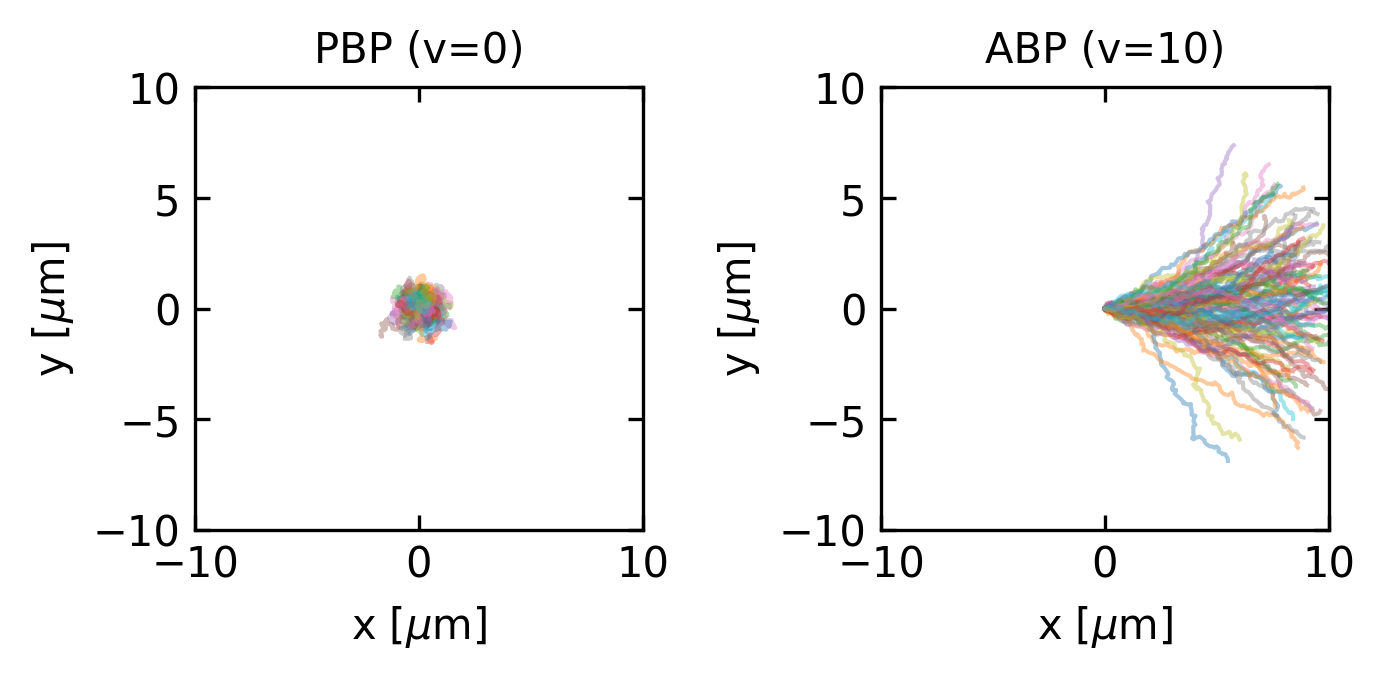
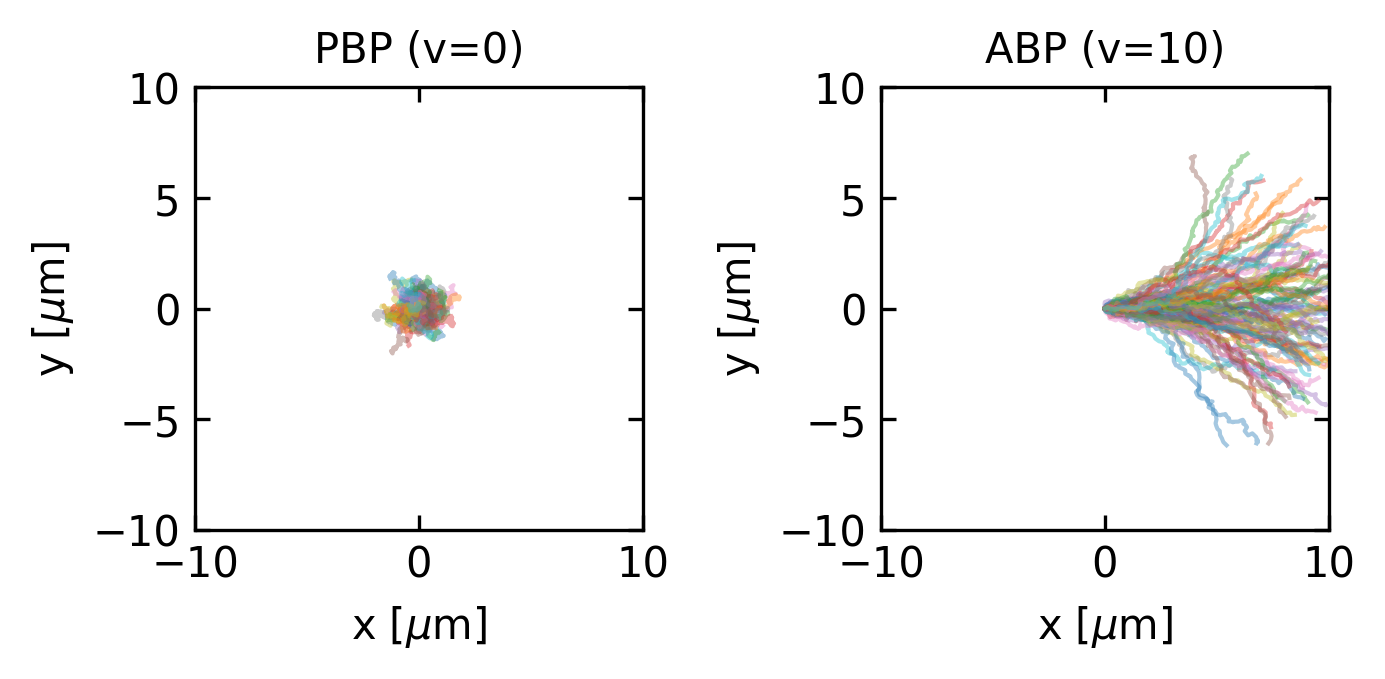
Built site for gh-pages

Changed region(s): [[0.7762, 0.2165, 0.9625, 0.6804], [0.2484, 0.4021, 0.3415, 0.5258]]

diff --git a/lecture04/lecture04.html b/lecture04/lecture04.html
@@ -20,6 +20,41 @@ ul.task-list li input[type="checkbox"] {
   margin: 0 0.8em 0.2em -1em; /* quarto-specific, see https://github.com/quarto-dev/quarto-cli/issues/4556 */ 
   vertical-align: middle;
 }
+/* CSS for syntax highlighting */
+html { -webkit-text-size-adjust: 100%; }
+pre > code.sourceCode { white-space: pre; position: relative; }
+pre > code.sourceCode > span { display: inline-block; line-height: 1.25; }
+pre > code.sourceCode > span:empty { height: 1.2em; }
+.sourceCode { overflow: visible; }
+code.sourceCode > span { color: inherit; text-decoration: inherit; }
+div.sourceCode { margin: 1em 0; }
+pre.sourceCode { margin: 0; }
+@media screen {
+div.sourceCode { overflow: auto; }
+}
+@media print {
+pre > code.sourceCode { white-space: pre-wrap; }
+pre > code.sourceCode > span { text-indent: -5em; padding-left: 5em; }
+}
+pre.numberSource code
+  { counter-reset: source-line 0; }
+pre.numberSource code > span
+  { position: relative; left: -4em; counter-increment: source-line; }
+pre.numberSource code > span > a:first-child::before
+  { content: counter(source-line);
+    position: relative; left: -1em; text-align: right; vertical-align: baseline;
+    border: none; display: inline-block;
+    -webkit-touch-callout: none; -webkit-user-select: none;
+    -khtml-user-select: none; -moz-user-select: none;
+    -ms-user-select: none; user-select: none;
+    padding: 0 4px; width: 4em;
+  }
+pre.numberSource { margin-left: 3em;  padding-left: 4px; }
+div.sourceCode
+  {   }
+@media screen {
+pre > code.sourceCode > span > a:first-child::before { text-decoration: underline; }
+}
 </style>
 
 
@@ -284,6 +319,33 @@ window.Quarto = {
 </header>
 
 
+<div id="da87497c" class="cell" data-execution_count="1">
+<div class="sourceCode cell-code" id="cb1"><pre class="sourceCode python code-with-copy"><code class="sourceCode python"><span id="cb1-1"><a href="#cb1-1" aria-hidden="true" tabindex="-1"></a><span class="co">## just for plotting later</span></span>
+<span id="cb1-2"><a href="#cb1-2" aria-hidden="true" tabindex="-1"></a><span class="im">import</span> numpy <span class="im">as</span> np</span>
+<span id="cb1-3"><a href="#cb1-3" aria-hidden="true" tabindex="-1"></a><span class="im">import</span> pandas <span class="im">as</span> pd</span>
+<span id="cb1-4"><a href="#cb1-4" aria-hidden="true" tabindex="-1"></a><span class="im">import</span> matplotlib.pyplot <span class="im">as</span> plt</span>
+<span id="cb1-5"><a href="#cb1-5" aria-hidden="true" tabindex="-1"></a></span>
+<span id="cb1-6"><a href="#cb1-6" aria-hidden="true" tabindex="-1"></a><span class="im">from</span> numpy.random <span class="im">import</span> randn</span>
+<span id="cb1-7"><a href="#cb1-7" aria-hidden="true" tabindex="-1"></a></span>
+<span id="cb1-8"><a href="#cb1-8" aria-hidden="true" tabindex="-1"></a><span class="co">#from matplotlib_inline.backend_inline import set_matplotlib_formats</span></span>
+<span id="cb1-9"><a href="#cb1-9" aria-hidden="true" tabindex="-1"></a><span class="co">#set_matplotlib_formats('svg')</span></span>
+<span id="cb1-10"><a href="#cb1-10" aria-hidden="true" tabindex="-1"></a></span>
+<span id="cb1-11"><a href="#cb1-11" aria-hidden="true" tabindex="-1"></a>plt.rcParams.update({<span class="st">'font.size'</span>: <span class="dv">10</span>,</span>
+<span id="cb1-12"><a href="#cb1-12" aria-hidden="true" tabindex="-1"></a>                     <span class="st">'axes.titlesize'</span>: <span class="dv">10</span>,</span>
+<span id="cb1-13"><a href="#cb1-13" aria-hidden="true" tabindex="-1"></a>                     <span class="st">'axes.labelsize'</span>: <span class="dv">10</span>,</span>
+<span id="cb1-14"><a href="#cb1-14" aria-hidden="true" tabindex="-1"></a>                     <span class="st">'lines.linewidth'</span>: <span class="dv">1</span>,</span>
+<span id="cb1-15"><a href="#cb1-15" aria-hidden="true" tabindex="-1"></a>                     <span class="st">'lines.markersize'</span>: <span class="dv">5</span>,</span>
+<span id="cb1-16"><a href="#cb1-16" aria-hidden="true" tabindex="-1"></a>                     <span class="st">'xtick.labelsize'</span> : <span class="dv">10</span>,</span>
+<span id="cb1-17"><a href="#cb1-17" aria-hidden="true" tabindex="-1"></a>                     <span class="st">'ytick.labelsize'</span> : <span class="dv">10</span>,</span>
+<span id="cb1-18"><a href="#cb1-18" aria-hidden="true" tabindex="-1"></a>                     <span class="st">'xtick.top'</span> : <span class="va">True</span>,</span>
+<span id="cb1-19"><a href="#cb1-19" aria-hidden="true" tabindex="-1"></a>                     <span class="st">'xtick.direction'</span> : <span class="st">'in'</span>,</span>
+<span id="cb1-20"><a href="#cb1-20" aria-hidden="true" tabindex="-1"></a>                     <span class="st">'ytick.right'</span> : <span class="va">True</span>,</span>
+<span id="cb1-21"><a href="#cb1-21" aria-hidden="true" tabindex="-1"></a>                     <span class="st">'ytick.direction'</span> : <span class="st">'in'</span>,</span>
+<span id="cb1-22"><a href="#cb1-22" aria-hidden="true" tabindex="-1"></a>                     <span class="st">'figure.dpi'</span>: <span class="dv">150</span>})</span>
+<span id="cb1-23"><a href="#cb1-23" aria-hidden="true" tabindex="-1"></a></span>
+<span id="cb1-24"><a href="#cb1-24" aria-hidden="true" tabindex="-1"></a><span class="kw">def</span> get_size(w,h):</span>
+<span id="cb1-25"><a href="#cb1-25" aria-hidden="true" tabindex="-1"></a>    <span class="cf">return</span>((w<span class="op">/</span><span class="fl">2.54</span>,h<span class="op">/</span><span class="fl">2.54</span>))</span></code><button title="Copy to Clipboard" class="code-copy-button"><i class="bi"></i></button></pre></div>
+</div>
 <section id="active-brownian-particles-abps" class="level2">
 <h2 class="anchored" data-anchor-id="active-brownian-particles-abps">Active Brownian Particles (ABPs)</h2>
 <p>After examining Run-and-Tumble Particles, we now turn to Active Brownian Particles (ABPs), which represent another fundamental model of self-propelled agents. Like RTPs, ABPs extend the equilibrium Brownian motion framework we discussed in Lecture 2, but they do so through continuous rotational diffusion rather than discrete tumbling events. This alternative self-propulsion mechanism similarly drives the system out of equilibrium.</p>
@@ -328,6 +390,85 @@ Figure&nbsp;1— Janus particles performing active Brownian motion. These synthe
 <p>The mean displacement in the y-direction averages to zero due to the symmetry of rotational diffusion. The x-component shows an initial ballistic growth that saturates at the persistence length scale <span class="math inline">\(l_p=v_0/D_r\)</span> for times much larger than the rotational diffusion time <span class="math inline">\(\tau_r=1/D_r\)</span>. This persistence length represents the typical distance traveled before the particle’s direction is randomized.</p>
 <p>Unlike equilibrium Brownian motion where the mean displacement is zero in all directions, the ABP’s mean displacement reflects the persistence of its self-propulsion. As <span class="math inline">\(t \to \infty\)</span>, the orientation becomes fully randomized, and any further displacement averages to zero, resulting in the saturation of the mean displacement to a finite value.</p>
 <div id="cell-fig-traj1" class="cell" data-execution_count="2">
+<div class="sourceCode cell-code" id="cb2"><pre class="sourceCode python code-with-copy"><code class="sourceCode python"><span id="cb2-1"><a href="#cb2-1" aria-hidden="true" tabindex="-1"></a><span class="co"># translational diffusion coefficient for T=300 K</span></span>
+<span id="cb2-2"><a href="#cb2-2" aria-hidden="true" tabindex="-1"></a><span class="kw">def</span> D_T(_eta,_R):</span>
+<span id="cb2-3"><a href="#cb2-3" aria-hidden="true" tabindex="-1"></a>    kBT<span class="op">=</span><span class="fl">4.14195e-21</span> <span class="co"># k_B * 300 K in J</span></span>
+<span id="cb2-4"><a href="#cb2-4" aria-hidden="true" tabindex="-1"></a>    <span class="cf">return</span>(kBT<span class="op">/</span>(<span class="dv">6</span><span class="op">*</span>np.pi<span class="op">*</span>_eta<span class="op">*</span>_R)) <span class="co"># diffusion constant returned in m^2/s</span></span>
+<span id="cb2-5"><a href="#cb2-5" aria-hidden="true" tabindex="-1"></a></span>
+<span id="cb2-6"><a href="#cb2-6" aria-hidden="true" tabindex="-1"></a><span class="co"># rotational diffusion coefficient for T=300 K</span></span>
+<span id="cb2-7"><a href="#cb2-7" aria-hidden="true" tabindex="-1"></a><span class="kw">def</span> D_R(_eta,_R):</span>
+<span id="cb2-8"><a href="#cb2-8" aria-hidden="true" tabindex="-1"></a>    kBT<span class="op">=</span><span class="fl">4.14195e-21</span> <span class="co"># k_B * 300 K in J</span></span>
+<span id="cb2-9"><a href="#cb2-9" aria-hidden="true" tabindex="-1"></a>    <span class="cf">return</span>(kBT<span class="op">/</span>(<span class="dv">8</span><span class="op">*</span>np.pi<span class="op">*</span>_eta<span class="op">*</span>_R<span class="op">**</span><span class="dv">3</span>)) <span class="co"># diffusion constant returned in m^2/s</span></span>
+<span id="cb2-10"><a href="#cb2-10" aria-hidden="true" tabindex="-1"></a></span>
+<span id="cb2-11"><a href="#cb2-11" aria-hidden="true" tabindex="-1"></a><span class="co"># rotate a 2D vector xy by an angle radians</span></span>
+<span id="cb2-12"><a href="#cb2-12" aria-hidden="true" tabindex="-1"></a><span class="kw">def</span> rotate(xy, radians):</span>
+<span id="cb2-13"><a href="#cb2-13" aria-hidden="true" tabindex="-1"></a>    x, y <span class="op">=</span> xy</span>
+<span id="cb2-14"><a href="#cb2-14" aria-hidden="true" tabindex="-1"></a>    c, s <span class="op">=</span> np.cos(radians), np.sin(radians)</span>
+<span id="cb2-15"><a href="#cb2-15" aria-hidden="true" tabindex="-1"></a>    j <span class="op">=</span> np.array([[c, s], [<span class="op">-</span>s, c]])</span>
+<span id="cb2-16"><a href="#cb2-16" aria-hidden="true" tabindex="-1"></a>    m <span class="op">=</span> np.dot(j, [x, y])</span>
+<span id="cb2-17"><a href="#cb2-17" aria-hidden="true" tabindex="-1"></a></span>
+<span id="cb2-18"><a href="#cb2-18" aria-hidden="true" tabindex="-1"></a>    <span class="cf">return</span>(<span class="bu">float</span>(m[<span class="dv">0</span>]), <span class="bu">float</span>(m[<span class="dv">1</span>]))</span>
+<span id="cb2-19"><a href="#cb2-19" aria-hidden="true" tabindex="-1"></a></span>
+<span id="cb2-20"><a href="#cb2-20" aria-hidden="true" tabindex="-1"></a></span>
+<span id="cb2-21"><a href="#cb2-21" aria-hidden="true" tabindex="-1"></a><span class="co"># generate the data of an active particle random walk</span></span>
+<span id="cb2-22"><a href="#cb2-22" aria-hidden="true" tabindex="-1"></a><span class="kw">def</span> genData_ap(N,_D,_Dr,_v,dt):</span>
+<span id="cb2-23"><a href="#cb2-23" aria-hidden="true" tabindex="-1"></a>    v<span class="op">=</span>np.random.random(<span class="dv">2</span>)</span>
+<span id="cb2-24"><a href="#cb2-24" aria-hidden="true" tabindex="-1"></a>    v[<span class="dv">0</span>]<span class="op">=</span>_v</span>
+<span id="cb2-25"><a href="#cb2-25" aria-hidden="true" tabindex="-1"></a>    v[<span class="dv">1</span>]<span class="op">=</span><span class="dv">0</span></span>
+<span id="cb2-26"><a href="#cb2-26" aria-hidden="true" tabindex="-1"></a>    sigma<span class="op">=</span>np.sqrt(<span class="dv">2</span><span class="op">*</span>_D<span class="op">*</span>dt)</span>
+<span id="cb2-27"><a href="#cb2-27" aria-hidden="true" tabindex="-1"></a>    sigma_r<span class="op">=</span>np.sqrt(<span class="dv">2</span><span class="op">*</span>_Dr<span class="op">*</span>dt)</span>
+<span id="cb2-28"><a href="#cb2-28" aria-hidden="true" tabindex="-1"></a></span>
+<span id="cb2-29"><a href="#cb2-29" aria-hidden="true" tabindex="-1"></a>    phi<span class="op">=</span>sigma_r<span class="op">*</span>randn(N).cumsum()</span>
+<span id="cb2-30"><a href="#cb2-30" aria-hidden="true" tabindex="-1"></a>    vx,vy<span class="op">=</span>[np.zeros(N),np.zeros(N)]</span>
+<span id="cb2-31"><a href="#cb2-31" aria-hidden="true" tabindex="-1"></a>    vx[:],vy[:]<span class="op">=</span>[v[<span class="dv">0</span>],v[<span class="dv">1</span>]]</span>
+<span id="cb2-32"><a href="#cb2-32" aria-hidden="true" tabindex="-1"></a>    vv<span class="op">=</span>np.array([rotate([vx[i],vy[i]],phi[i]) <span class="cf">for</span> i <span class="kw">in</span> <span class="bu">range</span>(<span class="bu">len</span>(phi))])</span>
+<span id="cb2-33"><a href="#cb2-33" aria-hidden="true" tabindex="-1"></a></span>
+<span id="cb2-34"><a href="#cb2-34" aria-hidden="true" tabindex="-1"></a>    <span class="co">#do the random walk</span></span>
+<span id="cb2-35"><a href="#cb2-35" aria-hidden="true" tabindex="-1"></a>    x <span class="op">=</span> (sigma<span class="op">*</span>randn(N)<span class="op">+</span>vv[:,<span class="dv">0</span>]<span class="op">*</span>dt).cumsum()</span>
+<span id="cb2-36"><a href="#cb2-36" aria-hidden="true" tabindex="-1"></a>    y <span class="op">=</span> (sigma<span class="op">*</span>randn(N)<span class="op">+</span>vv[:,<span class="dv">1</span>]<span class="op">*</span>dt).cumsum()</span>
+<span id="cb2-37"><a href="#cb2-37" aria-hidden="true" tabindex="-1"></a></span>
+<span id="cb2-38"><a href="#cb2-38" aria-hidden="true" tabindex="-1"></a>    <span class="co"># Shift to start at the origin</span></span>
+<span id="cb2-39"><a href="#cb2-39" aria-hidden="true" tabindex="-1"></a>    x <span class="op">=</span> x <span class="op">-</span> x[<span class="dv">0</span>]</span>
+<span id="cb2-40"><a href="#cb2-40" aria-hidden="true" tabindex="-1"></a>    y <span class="op">=</span> y <span class="op">-</span> y[<span class="dv">0</span>]</span>
+<span id="cb2-41"><a href="#cb2-41" aria-hidden="true" tabindex="-1"></a></span>
+<span id="cb2-42"><a href="#cb2-42" aria-hidden="true" tabindex="-1"></a>    index<span class="op">=</span>[i <span class="cf">for</span> i <span class="kw">in</span> <span class="bu">range</span>(N)]</span>
+<span id="cb2-43"><a href="#cb2-43" aria-hidden="true" tabindex="-1"></a>    df<span class="op">=</span>pd.DataFrame({<span class="st">'x'</span>:x,<span class="st">'y'</span>:y,<span class="st">'area'</span>:np.zeros(N),<span class="st">'max_intensity'</span>:np.zeros(N),<span class="st">'frame'</span>: index,<span class="st">'angle'</span>: phi})</span>
+<span id="cb2-44"><a href="#cb2-44" aria-hidden="true" tabindex="-1"></a>    <span class="cf">return</span>(df)</span>
+<span id="cb2-45"><a href="#cb2-45" aria-hidden="true" tabindex="-1"></a></span>
+<span id="cb2-46"><a href="#cb2-46" aria-hidden="true" tabindex="-1"></a><span class="co">#provide some parameters</span></span>
+<span id="cb2-47"><a href="#cb2-47" aria-hidden="true" tabindex="-1"></a>dt<span class="op">=</span><span class="fl">0.010</span>  <span class="co"># 50 ms time resolution</span></span>
+<span id="cb2-48"><a href="#cb2-48" aria-hidden="true" tabindex="-1"></a>R<span class="op">=</span><span class="fl">1e-6</span></span>
+<span id="cb2-49"><a href="#cb2-49" aria-hidden="true" tabindex="-1"></a>D<span class="op">=</span>D_T(<span class="fl">1e-3</span>,R)<span class="op">*</span><span class="fl">1e12</span>   <span class="co"># µm^2/s diffusion coefficient</span></span>
+<span id="cb2-50"><a href="#cb2-50" aria-hidden="true" tabindex="-1"></a>Dr<span class="op">=</span>D_R(<span class="fl">1e-3</span>,R)   <span class="co">#  rad^2/s rotational diffusion</span></span>
+<span id="cb2-51"><a href="#cb2-51" aria-hidden="true" tabindex="-1"></a>N<span class="op">=</span><span class="dv">100</span> <span class="co"># number of steps</span></span>
+<span id="cb2-52"><a href="#cb2-52" aria-hidden="true" tabindex="-1"></a></span>
+<span id="cb2-53"><a href="#cb2-53" aria-hidden="true" tabindex="-1"></a><span class="co"># Create figure with two subplots side by side</span></span>
+<span id="cb2-54"><a href="#cb2-54" aria-hidden="true" tabindex="-1"></a>fig, (ax1, ax2) <span class="op">=</span> plt.subplots(<span class="dv">1</span>, <span class="dv">2</span>, figsize<span class="op">=</span>get_size(<span class="dv">12</span>,<span class="dv">6</span>))</span>
+<span id="cb2-55"><a href="#cb2-55" aria-hidden="true" tabindex="-1"></a></span>
+<span id="cb2-56"><a href="#cb2-56" aria-hidden="true" tabindex="-1"></a><span class="co"># Plot passive Brownian particles (v=0) on the left subplot</span></span>
+<span id="cb2-57"><a href="#cb2-57" aria-hidden="true" tabindex="-1"></a><span class="cf">for</span> i <span class="kw">in</span> <span class="bu">range</span>(<span class="dv">100</span>):</span>
+<span id="cb2-58"><a href="#cb2-58" aria-hidden="true" tabindex="-1"></a>    dff<span class="op">=</span>genData_ap(N,D,Dr,<span class="dv">0</span>,dt)  <span class="co"># v=0 for passive Brownian motion</span></span>
+<span id="cb2-59"><a href="#cb2-59" aria-hidden="true" tabindex="-1"></a>    ax1.plot(dff[<span class="st">'x'</span>],dff[<span class="st">'y'</span>],<span class="st">'-'</span>,alpha<span class="op">=</span><span class="fl">0.4</span>)</span>
+<span id="cb2-60"><a href="#cb2-60" aria-hidden="true" tabindex="-1"></a>ax1.set_xlabel(<span class="vs">r"x </span><span class="pp">[$</span><span class="dv">\m</span><span class="pp">u$m]</span><span class="vs">"</span>)</span>
+<span id="cb2-61"><a href="#cb2-61" aria-hidden="true" tabindex="-1"></a>ax1.set_ylabel(<span class="vs">r"y </span><span class="pp">[$</span><span class="dv">\m</span><span class="pp">u$m]</span><span class="vs">"</span>)</span>
+<span id="cb2-62"><a href="#cb2-62" aria-hidden="true" tabindex="-1"></a>ax1.set_title(<span class="st">"PBP (v=0)"</span>)</span>
+<span id="cb2-63"><a href="#cb2-63" aria-hidden="true" tabindex="-1"></a></span>
+<span id="cb2-64"><a href="#cb2-64" aria-hidden="true" tabindex="-1"></a>ax1.set_xlim(<span class="op">-</span><span class="dv">10</span>,<span class="dv">10</span>)</span>
+<span id="cb2-65"><a href="#cb2-65" aria-hidden="true" tabindex="-1"></a>ax1.set_ylim(<span class="op">-</span><span class="dv">10</span>,<span class="dv">10</span>)</span>
+<span id="cb2-66"><a href="#cb2-66" aria-hidden="true" tabindex="-1"></a></span>
+<span id="cb2-67"><a href="#cb2-67" aria-hidden="true" tabindex="-1"></a><span class="co"># Plot active Brownian particles (v=10) on the right subplot</span></span>
+<span id="cb2-68"><a href="#cb2-68" aria-hidden="true" tabindex="-1"></a><span class="cf">for</span> i <span class="kw">in</span> <span class="bu">range</span>(<span class="dv">100</span>):</span>
+<span id="cb2-69"><a href="#cb2-69" aria-hidden="true" tabindex="-1"></a>    dff<span class="op">=</span>genData_ap(N,D,Dr,<span class="dv">10</span>,dt)  <span class="co"># v=10 for active Brownian particles</span></span>
+<span id="cb2-70"><a href="#cb2-70" aria-hidden="true" tabindex="-1"></a>    ax2.plot(dff[<span class="st">'x'</span>],dff[<span class="st">'y'</span>],<span class="st">'-'</span>,alpha<span class="op">=</span><span class="fl">0.4</span>)</span>
+<span id="cb2-71"><a href="#cb2-71" aria-hidden="true" tabindex="-1"></a>ax2.set_xlabel(<span class="vs">r"x </span><span class="pp">[$</span><span class="dv">\m</span><span class="pp">u$m]</span><span class="vs">"</span>)</span>
+<span id="cb2-72"><a href="#cb2-72" aria-hidden="true" tabindex="-1"></a>ax2.set_ylabel(<span class="vs">r"y </span><span class="pp">[$</span><span class="dv">\m</span><span class="pp">u$m]</span><span class="vs">"</span>)</span>
+<span id="cb2-73"><a href="#cb2-73" aria-hidden="true" tabindex="-1"></a>ax2.set_title(<span class="st">"ABP (v=10)"</span>)</span>
+<span id="cb2-74"><a href="#cb2-74" aria-hidden="true" tabindex="-1"></a>ax2.set_xlim(<span class="op">-</span><span class="dv">10</span>,<span class="dv">10</span>)</span>
+<span id="cb2-75"><a href="#cb2-75" aria-hidden="true" tabindex="-1"></a>ax2.set_ylim(<span class="op">-</span><span class="dv">10</span>,<span class="dv">10</span>)</span>
+<span id="cb2-76"><a href="#cb2-76" aria-hidden="true" tabindex="-1"></a></span>
+<span id="cb2-77"><a href="#cb2-77" aria-hidden="true" tabindex="-1"></a></span>
+<span id="cb2-78"><a href="#cb2-78" aria-hidden="true" tabindex="-1"></a>plt.tight_layout()</span>
+<span id="cb2-79"><a href="#cb2-79" aria-hidden="true" tabindex="-1"></a>plt.show()</span></code><button title="Copy to Clipboard" class="code-copy-button"><i class="bi"></i></button></pre></div>
 <div class="cell-output cell-output-display">
 <div id="fig-traj1" class="quarto-float quarto-figure quarto-figure-center anchored">
 <figure class="quarto-float quarto-float-fig figure">
@@ -369,6 +510,52 @@ Figure&nbsp;2— Trajectories of a particle (R=1 µm) starting at the origin wit
 <p><span class="math display">\[D_{\text{eff}} = D_t + \frac{v_0^2}{2dD_r}\]</span></p>
 <p>where <span class="math inline">\(d\)</span> is the dimensionality. This enhanced diffusion coefficient represents a key signature of the system’s non-equilibrium nature and cannot be explained by equilibrium statistical mechanics.</p>
 <div id="cell-fig-msd" class="cell" data-execution_count="3">
+<details class="code-fold">
+<summary>Code</summary>
+<div class="sourceCode cell-code" id="cb3"><pre class="sourceCode python code-with-copy"><code class="sourceCode python"><span id="cb3-1"><a href="#cb3-1" aria-hidden="true" tabindex="-1"></a><span class="co"># Parameters</span></span>
+<span id="cb3-2"><a href="#cb3-2" aria-hidden="true" tabindex="-1"></a>D_t <span class="op">=</span> <span class="fl">1.0</span>      <span class="co"># thermal translational diffusion coefficient</span></span>
+<span id="cb3-3"><a href="#cb3-3" aria-hidden="true" tabindex="-1"></a>v_0 <span class="op">=</span> <span class="fl">5.0</span>      <span class="co"># self-propulsion speed</span></span>
+<span id="cb3-4"><a href="#cb3-4" aria-hidden="true" tabindex="-1"></a>D_r <span class="op">=</span> <span class="fl">0.2</span>      <span class="co"># rotational diffusion coefficient</span></span>
+<span id="cb3-5"><a href="#cb3-5" aria-hidden="true" tabindex="-1"></a>tau_r <span class="op">=</span> <span class="dv">1</span><span class="op">/</span>D_r  <span class="co"># rotational diffusion time</span></span>
+<span id="cb3-6"><a href="#cb3-6" aria-hidden="true" tabindex="-1"></a></span>
+<span id="cb3-7"><a href="#cb3-7" aria-hidden="true" tabindex="-1"></a><span class="co"># Calculate theoretical MSD</span></span>
+<span id="cb3-8"><a href="#cb3-8" aria-hidden="true" tabindex="-1"></a><span class="kw">def</span> msd_theory(t, D_t, v_0, D_r):</span>
+<span id="cb3-9"><a href="#cb3-9" aria-hidden="true" tabindex="-1"></a>    <span class="co">"""Theoretical mean square displacement for active Brownian particles"""</span></span>
+<span id="cb3-10"><a href="#cb3-10" aria-hidden="true" tabindex="-1"></a>    <span class="cf">return</span> <span class="dv">4</span><span class="op">*</span>D_t<span class="op">*</span>t <span class="op">+</span> (<span class="dv">2</span><span class="op">*</span>v_0<span class="op">**</span><span class="dv">2</span>)<span class="op">/</span>(D_r<span class="op">**</span><span class="dv">2</span>)<span class="op">*</span>(D_r<span class="op">*</span>t <span class="op">-</span> <span class="dv">1</span> <span class="op">+</span> np.exp(<span class="op">-</span>D_r<span class="op">*</span>t))</span>
+<span id="cb3-11"><a href="#cb3-11" aria-hidden="true" tabindex="-1"></a></span>
+<span id="cb3-12"><a href="#cb3-12" aria-hidden="true" tabindex="-1"></a><span class="co"># Time range spanning multiple regimes</span></span>
+<span id="cb3-13"><a href="#cb3-13" aria-hidden="true" tabindex="-1"></a>t <span class="op">=</span> np.logspace(<span class="op">-</span><span class="dv">2</span>, <span class="dv">2</span>, <span class="dv">1000</span>)  <span class="co"># from 0.01 to 100</span></span>
+<span id="cb3-14"><a href="#cb3-14" aria-hidden="true" tabindex="-1"></a>msd <span class="op">=</span> msd_theory(t, D_t, v_0, D_r)</span>
+<span id="cb3-15"><a href="#cb3-15" aria-hidden="true" tabindex="-1"></a></span>
+<span id="cb3-16"><a href="#cb3-16" aria-hidden="true" tabindex="-1"></a><span class="co"># Calculate effective diffusion coefficient</span></span>
+<span id="cb3-17"><a href="#cb3-17" aria-hidden="true" tabindex="-1"></a>D_eff <span class="op">=</span> D_t <span class="op">+</span> v_0<span class="op">**</span><span class="dv">2</span><span class="op">/</span>(<span class="dv">2</span><span class="op">*</span>D_r)</span>
+<span id="cb3-18"><a href="#cb3-18" aria-hidden="true" tabindex="-1"></a></span>
+<span id="cb3-19"><a href="#cb3-19" aria-hidden="true" tabindex="-1"></a><span class="co"># Create figure</span></span>
+<span id="cb3-20"><a href="#cb3-20" aria-hidden="true" tabindex="-1"></a>plt.figure(figsize<span class="op">=</span>get_size(<span class="dv">10</span>, <span class="dv">8</span>))</span>
+<span id="cb3-21"><a href="#cb3-21" aria-hidden="true" tabindex="-1"></a></span>
+<span id="cb3-22"><a href="#cb3-22" aria-hidden="true" tabindex="-1"></a><span class="co"># Plot MSD on log-log scale</span></span>
+<span id="cb3-23"><a href="#cb3-23" aria-hidden="true" tabindex="-1"></a>plt.loglog(t, msd, <span class="st">'b-'</span>, linewidth<span class="op">=</span><span class="dv">2</span>, label<span class="op">=</span><span class="st">'MSD of ABP'</span>)</span>
+<span id="cb3-24"><a href="#cb3-24" aria-hidden="true" tabindex="-1"></a></span>
+<span id="cb3-25"><a href="#cb3-25" aria-hidden="true" tabindex="-1"></a><span class="co"># Add reference lines for different scaling regimes</span></span>
+<span id="cb3-26"><a href="#cb3-26" aria-hidden="true" tabindex="-1"></a>t_ref <span class="op">=</span> np.array([<span class="fl">0.05</span>, <span class="dv">50</span>])</span>
+<span id="cb3-27"><a href="#cb3-27" aria-hidden="true" tabindex="-1"></a>plt.loglog(t_ref, <span class="dv">4</span><span class="op">*</span>D_t<span class="op">*</span>t_ref, <span class="st">'k--'</span>, label<span class="op">=</span><span class="vs">r'</span><span class="dv">$\s</span><span class="vs">im 4D_t t</span><span class="dv">$</span><span class="vs"> </span><span class="kw">(</span><span class="vs">thermal diffusion</span><span class="kw">)</span><span class="vs">'</span>)</span>
+<span id="cb3-28"><a href="#cb3-28" aria-hidden="true" tabindex="-1"></a>plt.loglog(t_ref, v_0<span class="op">**</span><span class="dv">2</span><span class="op">*</span>t_ref<span class="op">**</span><span class="dv">2</span>, <span class="st">'r--'</span>, label<span class="op">=</span><span class="vs">r'</span><span class="dv">$\s</span><span class="vs">im v_0</span><span class="dv">^</span><span class="vs">2 t</span><span class="dv">^</span><span class="vs">2</span><span class="dv">$</span><span class="vs"> </span><span class="kw">(</span><span class="vs">ballistic</span><span class="kw">)</span><span class="vs">'</span>)</span>
+<span id="cb3-29"><a href="#cb3-29" aria-hidden="true" tabindex="-1"></a>plt.loglog(t_ref, <span class="dv">4</span><span class="op">*</span>D_eff<span class="op">*</span>t_ref, <span class="st">'g--'</span>, label<span class="op">=</span><span class="vs">r'</span><span class="dv">$\s</span><span class="vs">im 4D_{eff}t</span><span class="dv">$</span><span class="vs"> </span><span class="kw">(</span><span class="vs">enhanced diffusion</span><span class="kw">)</span><span class="vs">'</span>)</span>
+<span id="cb3-30"><a href="#cb3-30" aria-hidden="true" tabindex="-1"></a></span>
+<span id="cb3-31"><a href="#cb3-31" aria-hidden="true" tabindex="-1"></a><span class="co"># Add vertical line at rotational diffusion time</span></span>
+<span id="cb3-32"><a href="#cb3-32" aria-hidden="true" tabindex="-1"></a>plt.axvline(x<span class="op">=</span>tau_r, color<span class="op">=</span><span class="st">'gray'</span>, linestyle<span class="op">=</span><span class="st">':'</span>, label<span class="op">=</span><span class="vs">r'</span><span class="dv">$</span><span class="ch">\t</span><span class="vs">au_r = 1/D_r</span><span class="dv">$</span><span class="vs">'</span>)</span>
+<span id="cb3-33"><a href="#cb3-33" aria-hidden="true" tabindex="-1"></a></span>
+<span id="cb3-34"><a href="#cb3-34" aria-hidden="true" tabindex="-1"></a><span class="co"># Mark the three regimes</span></span>
+<span id="cb3-35"><a href="#cb3-35" aria-hidden="true" tabindex="-1"></a><span class="co">#plt.annotate("Short-time regime", xy=(0.02, 0.3), xytext=(0.02, 0.3), fontsize=9)</span></span>
+<span id="cb3-36"><a href="#cb3-36" aria-hidden="true" tabindex="-1"></a><span class="co">#plt.annotate("Intermediate-time regime", xy=(0.5, 10), xytext=(0.5, 10), fontsize=9)</span></span>
+<span id="cb3-37"><a href="#cb3-37" aria-hidden="true" tabindex="-1"></a><span class="co">#plt.annotate("Long-time regime", xy=(10, 200), xytext=(10, 200), fontsize=9)</span></span>
+<span id="cb3-38"><a href="#cb3-38" aria-hidden="true" tabindex="-1"></a></span>
+<span id="cb3-39"><a href="#cb3-39" aria-hidden="true" tabindex="-1"></a>plt.xlabel(<span class="vs">r'Time </span><span class="dv">$</span><span class="vs">t</span><span class="dv">$</span><span class="vs">'</span>)</span>
+<span id="cb3-40"><a href="#cb3-40" aria-hidden="true" tabindex="-1"></a>plt.ylabel(<span class="vs">r'MSD </span><span class="dv">$</span><span class="er">\</span><span class="vs">langle</span><span class="cf">|</span><span class="dv">\m</span><span class="vs">athbf{r}</span><span class="kw">(</span><span class="vs">t</span><span class="kw">)</span><span class="vs"> - </span><span class="dv">\m</span><span class="vs">athbf{r}</span><span class="kw">(</span><span class="vs">0</span><span class="kw">)</span><span class="cf">|</span><span class="dv">^</span><span class="vs">2</span><span class="ch">\r</span><span class="vs">angle</span><span class="dv">$</span><span class="vs">'</span>)</span>
+<span id="cb3-41"><a href="#cb3-41" aria-hidden="true" tabindex="-1"></a><span class="co">#plt.legend()</span></span>
+<span id="cb3-42"><a href="#cb3-42" aria-hidden="true" tabindex="-1"></a>plt.tight_layout()</span>
+<span id="cb3-43"><a href="#cb3-43" aria-hidden="true" tabindex="-1"></a>plt.show()</span></code><button title="Copy to Clipboard" class="code-copy-button"><i class="bi"></i></button></pre></div>
+</details>
 <div class="cell-output cell-output-display">
 <div id="fig-msd" class="quarto-float quarto-figure quarto-figure-center anchored">
 <figure class="quarto-float quarto-float-fig figure">
@@ -816,6 +1003,76 @@ u_\theta(a, \theta)=B_1 \sin \theta+\frac{1}{2} B_2 \sin 2 \theta
 </tbody>
 </table>
 <div id="cell-fig-squirmer-types" class="cell" data-execution_count="10">
+<details class="code-fold">
+<summary>Code</summary>
+<div class="sourceCode cell-code" id="cb4"><pre class="sourceCode python code-with-copy"><code class="sourceCode python"><span id="cb4-1"><a href="#cb4-1" aria-hidden="true" tabindex="-1"></a><span class="co"># Create figure with three subplots for different squirmer types</span></span>
+<span id="cb4-2"><a href="#cb4-2" aria-hidden="true" tabindex="-1"></a>fig, axes <span class="op">=</span> plt.subplots(<span class="dv">1</span>, <span class="dv">3</span>, figsize<span class="op">=</span>get_size(<span class="dv">12</span>, <span class="dv">4</span>))</span>
+<span id="cb4-3"><a href="#cb4-3" aria-hidden="true" tabindex="-1"></a></span>
+<span id="cb4-4"><a href="#cb4-4" aria-hidden="true" tabindex="-1"></a><span class="co"># Set up grid for velocity field</span></span>
+<span id="cb4-5"><a href="#cb4-5" aria-hidden="true" tabindex="-1"></a>x <span class="op">=</span> np.linspace(<span class="op">-</span><span class="dv">3</span>, <span class="dv">3</span>, <span class="dv">100</span>)</span>
+<span id="cb4-6"><a href="#cb4-6" aria-hidden="true" tabindex="-1"></a>y <span class="op">=</span> np.linspace(<span class="op">-</span><span class="dv">3</span>, <span class="dv">3</span>, <span class="dv">100</span>)</span>
+<span id="cb4-7"><a href="#cb4-7" aria-hidden="true" tabindex="-1"></a>X, Y <span class="op">=</span> np.meshgrid(x, y)</span>
+<span id="cb4-8"><a href="#cb4-8" aria-hidden="true" tabindex="-1"></a></span>
+<span id="cb4-9"><a href="#cb4-9" aria-hidden="true" tabindex="-1"></a><span class="co"># Calculate R (distance from origin) and θ (polar angle)</span></span>
+<span id="cb4-10"><a href="#cb4-10" aria-hidden="true" tabindex="-1"></a>R <span class="op">=</span> np.sqrt(X<span class="op">**</span><span class="dv">2</span> <span class="op">+</span> Y<span class="op">**</span><span class="dv">2</span>)</span>
+<span id="cb4-11"><a href="#cb4-11" aria-hidden="true" tabindex="-1"></a>Theta <span class="op">=</span> np.arctan2(Y, X)</span>
+<span id="cb4-12"><a href="#cb4-12" aria-hidden="true" tabindex="-1"></a></span>
+<span id="cb4-13"><a href="#cb4-13" aria-hidden="true" tabindex="-1"></a><span class="co"># Parameters for squirmer</span></span>
+<span id="cb4-14"><a href="#cb4-14" aria-hidden="true" tabindex="-1"></a>a <span class="op">=</span> <span class="fl">1.0</span>  <span class="co"># radius of squirmer</span></span>
+<span id="cb4-15"><a href="#cb4-15" aria-hidden="true" tabindex="-1"></a>B1 <span class="op">=</span> <span class="fl">1.0</span>  <span class="co"># first mode coefficient (determines swimming speed)</span></span>
+<span id="cb4-16"><a href="#cb4-16" aria-hidden="true" tabindex="-1"></a></span>
+<span id="cb4-17"><a href="#cb4-17" aria-hidden="true" tabindex="-1"></a><span class="co"># Calculate flow fields for different squirmer types</span></span>
+<span id="cb4-18"><a href="#cb4-18" aria-hidden="true" tabindex="-1"></a><span class="cf">for</span> ax, beta, title <span class="kw">in</span> <span class="bu">zip</span>(</span>
+<span id="cb4-19"><a href="#cb4-19" aria-hidden="true" tabindex="-1"></a>    axes,</span>
+<span id="cb4-20"><a href="#cb4-20" aria-hidden="true" tabindex="-1"></a>    [<span class="op">-</span><span class="dv">5</span>, <span class="dv">0</span>, <span class="dv">5</span>],</span>
+<span id="cb4-21"><a href="#cb4-21" aria-hidden="true" tabindex="-1"></a>    [<span class="st">"Pusher (β = -5)"</span>, <span class="st">"Neutral (β = 0)"</span>, <span class="st">"Puller (β = 5)"</span>]</span>
+<span id="cb4-22"><a href="#cb4-22" aria-hidden="true" tabindex="-1"></a>):</span>
+<span id="cb4-23"><a href="#cb4-23" aria-hidden="true" tabindex="-1"></a>    <span class="co"># B2 coefficient based on beta</span></span>
+<span id="cb4-24"><a href="#cb4-24" aria-hidden="true" tabindex="-1"></a>    B2 <span class="op">=</span> beta <span class="op">*</span> np.<span class="bu">abs</span>(B1)</span>
+<span id="cb4-25"><a href="#cb4-25" aria-hidden="true" tabindex="-1"></a></span>
+<span id="cb4-26"><a href="#cb4-26" aria-hidden="true" tabindex="-1"></a>    <span class="co"># Set up arrays for velocity components</span></span>
+<span id="cb4-27"><a href="#cb4-27" aria-hidden="true" tabindex="-1"></a>    u_r <span class="op">=</span> np.zeros_like(X)</span>
+<span id="cb4-28"><a href="#cb4-28" aria-hidden="true" tabindex="-1"></a>    u_theta <span class="op">=</span> np.zeros_like(X)</span>
+<span id="cb4-29"><a href="#cb4-29" aria-hidden="true" tabindex="-1"></a></span>
+<span id="cb4-30"><a href="#cb4-30" aria-hidden="true" tabindex="-1"></a>    <span class="co"># Avoid singularity inside the particle</span></span>
+<span id="cb4-31"><a href="#cb4-31" aria-hidden="true" tabindex="-1"></a>    mask <span class="op">=</span> R <span class="op">&gt;</span> a</span>
+<span id="cb4-32"><a href="#cb4-32" aria-hidden="true" tabindex="-1"></a></span>
+<span id="cb4-33"><a href="#cb4-33" aria-hidden="true" tabindex="-1"></a>    <span class="co"># Calculate squirmer flow field components using first two modes</span></span>
+<span id="cb4-34"><a href="#cb4-34" aria-hidden="true" tabindex="-1"></a>    <span class="co"># Radial component</span></span>
+<span id="cb4-35"><a href="#cb4-35" aria-hidden="true" tabindex="-1"></a>    u_r[mask] <span class="op">=</span> (<span class="dv">2</span><span class="op">/</span><span class="dv">3</span>) <span class="op">*</span> ((a<span class="op">**</span><span class="dv">3</span><span class="op">/</span>R[mask]<span class="op">**</span><span class="dv">3</span>) <span class="op">-</span> <span class="dv">1</span>) <span class="op">*</span> B1 <span class="op">*</span> np.cos(Theta[mask]) <span class="op">+</span> <span class="op">\</span></span>
+<span id="cb4-36"><a href="#cb4-36" aria-hidden="true" tabindex="-1"></a>                ((a<span class="op">**</span><span class="dv">4</span><span class="op">/</span>R[mask]<span class="op">**</span><span class="dv">4</span>) <span class="op">-</span> (a<span class="op">**</span><span class="dv">2</span><span class="op">/</span>R[mask]<span class="op">**</span><span class="dv">2</span>)) <span class="op">*</span> B2 <span class="op">*</span> (<span class="dv">3</span><span class="op">*</span>np.cos(Theta[mask])<span class="op">**</span><span class="dv">2</span> <span class="op">-</span> <span class="dv">1</span>)<span class="op">/</span><span class="dv">2</span></span>
+<span id="cb4-37"><a href="#cb4-37" aria-hidden="true" tabindex="-1"></a></span>
+<span id="cb4-38"><a href="#cb4-38" aria-hidden="true" tabindex="-1"></a>    <span class="co"># Tangential component</span></span>
+<span id="cb4-39"><a href="#cb4-39" aria-hidden="true" tabindex="-1"></a>    u_theta[mask] <span class="op">=</span> (<span class="dv">1</span><span class="op">/</span><span class="dv">3</span>) <span class="op">*</span> ((a<span class="op">**</span><span class="dv">3</span><span class="op">/</span>R[mask]<span class="op">**</span><span class="dv">3</span>) <span class="op">+</span> <span class="dv">2</span>) <span class="op">*</span> B1 <span class="op">*</span> np.sin(Theta[mask]) <span class="op">+</span> <span class="op">\</span></span>
+<span id="cb4-40"><a href="#cb4-40" aria-hidden="true" tabindex="-1"></a>                    (<span class="dv">1</span><span class="op">/</span><span class="dv">2</span>) <span class="op">*</span> (<span class="dv">1</span><span class="op">*</span>(a<span class="op">**</span><span class="dv">4</span><span class="op">/</span>R[mask]<span class="op">**</span><span class="dv">4</span>) <span class="op">+</span> <span class="dv">0</span><span class="op">*</span>(a<span class="op">**</span><span class="dv">2</span><span class="op">/</span>R[mask]<span class="op">**</span><span class="dv">2</span>)) <span class="op">*</span> B2 <span class="op">*</span> np.sin(<span class="dv">2</span><span class="op">*</span>Theta[mask])</span>
+<span id="cb4-41"><a href="#cb4-41" aria-hidden="true" tabindex="-1"></a></span>
+<span id="cb4-42"><a href="#cb4-42" aria-hidden="true" tabindex="-1"></a>    <span class="co"># Convert from polar to Cartesian components</span></span>
+<span id="cb4-43"><a href="#cb4-43" aria-hidden="true" tabindex="-1"></a>    u <span class="op">=</span> u_r <span class="op">*</span> np.cos(Theta) <span class="op">-</span> u_theta <span class="op">*</span> np.sin(Theta)</span>
+<span id="cb4-44"><a href="#cb4-44" aria-hidden="true" tabindex="-1"></a>    v <span class="op">=</span> u_r <span class="op">*</span> np.sin(Theta) <span class="op">+</span> u_theta <span class="op">*</span> np.cos(Theta)</span>
+<span id="cb4-45"><a href="#cb4-45" aria-hidden="true" tabindex="-1"></a></span>
+<span id="cb4-46"><a href="#cb4-46" aria-hidden="true" tabindex="-1"></a>    <span class="co"># Draw the squirmer as a circle</span></span>
+<span id="cb4-47"><a href="#cb4-47" aria-hidden="true" tabindex="-1"></a>    circle <span class="op">=</span> plt.Circle((<span class="dv">0</span>, <span class="dv">0</span>), a, fill<span class="op">=</span><span class="va">True</span>, color<span class="op">=</span><span class="st">'lightblue'</span>, alpha<span class="op">=</span><span class="fl">0.6</span>)</span>
+<span id="cb4-48"><a href="#cb4-48" aria-hidden="true" tabindex="-1"></a>    ax.add_patch(circle)</span>
+<span id="cb4-49"><a href="#cb4-49" aria-hidden="true" tabindex="-1"></a></span>
+<span id="cb4-50"><a href="#cb4-50" aria-hidden="true" tabindex="-1"></a>    <span class="co"># Plot velocity field as streamlines</span></span>
+<span id="cb4-51"><a href="#cb4-51" aria-hidden="true" tabindex="-1"></a>    ax.streamplot(X, Y, u, v, density<span class="op">=</span><span class="fl">1.2</span>, color<span class="op">=</span><span class="st">'k'</span>, linewidth<span class="op">=</span><span class="fl">0.5</span>, arrowsize<span class="op">=</span><span class="fl">0.5</span>)</span>
+<span id="cb4-52"><a href="#cb4-52" aria-hidden="true" tabindex="-1"></a></span>
+<span id="cb4-53"><a href="#cb4-53" aria-hidden="true" tabindex="-1"></a>    <span class="co"># Add arrow to indicate swimming direction</span></span>
+<span id="cb4-54"><a href="#cb4-54" aria-hidden="true" tabindex="-1"></a>    ax.arrow(<span class="dv">0</span>, <span class="dv">0</span>, <span class="fl">0.4</span>, <span class="dv">0</span>, width<span class="op">=</span><span class="fl">0.08</span>, head_width<span class="op">=</span><span class="fl">0.2</span>,</span>
+<span id="cb4-55"><a href="#cb4-55" aria-hidden="true" tabindex="-1"></a>             head_length<span class="op">=</span><span class="fl">0.2</span>, fc<span class="op">=</span><span class="st">'blue'</span>, ec<span class="op">=</span><span class="st">'blue'</span>, alpha<span class="op">=</span><span class="fl">0.7</span>)</span>
+<span id="cb4-56"><a href="#cb4-56" aria-hidden="true" tabindex="-1"></a></span>
+<span id="cb4-57"><a href="#cb4-57" aria-hidden="true" tabindex="-1"></a>    <span class="co"># Set plot properties</span></span>
+<span id="cb4-58"><a href="#cb4-58" aria-hidden="true" tabindex="-1"></a>    ax.set_xlim(<span class="op">-</span><span class="dv">3</span>, <span class="dv">3</span>)</span>
+<span id="cb4-59"><a href="#cb4-59" aria-hidden="true" tabindex="-1"></a>    ax.set_ylim(<span class="op">-</span><span class="dv">3</span>, <span class="dv">3</span>)</span>
+<span id="cb4-60"><a href="#cb4-60" aria-hidden="true" tabindex="-1"></a>    ax.set_aspect(<span class="st">'equal'</span>)</span>
+<span id="cb4-61"><a href="#cb4-61" aria-hidden="true" tabindex="-1"></a>    ax.set_title(title)</span>
+<span id="cb4-62"><a href="#cb4-62" aria-hidden="true" tabindex="-1"></a>    ax.set_xlabel(<span class="st">'x'</span>)</span>
+<span id="cb4-63"><a href="#cb4-63" aria-hidden="true" tabindex="-1"></a>    <span class="cf">if</span> ax <span class="op">==</span> axes[<span class="dv">0</span>]:</span>
+<span id="cb4-64"><a href="#cb4-64" aria-hidden="true" tabindex="-1"></a>        ax.set_ylabel(<span class="st">'y'</span>)</span>
+<span id="cb4-65"><a href="#cb4-65" aria-hidden="true" tabindex="-1"></a></span>
+<span id="cb4-66"><a href="#cb4-66" aria-hidden="true" tabindex="-1"></a>plt.tight_layout(pad<span class="op">=</span><span class="fl">0.2</span>, w_pad<span class="op">=</span><span class="fl">0.1</span>)</span>
+<span id="cb4-67"><a href="#cb4-67" aria-hidden="true" tabindex="-1"></a>plt.show()</span></code><button title="Copy to Clipboard" class="code-copy-button"><i class="bi"></i></button></pre></div>
+</details>
 <div class="cell-output cell-output-display">
 <div id="fig-squirmer-types" class="quarto-float quarto-figure quarto-figure-center anchored">
 <figure class="quarto-float quarto-float-fig figure">
